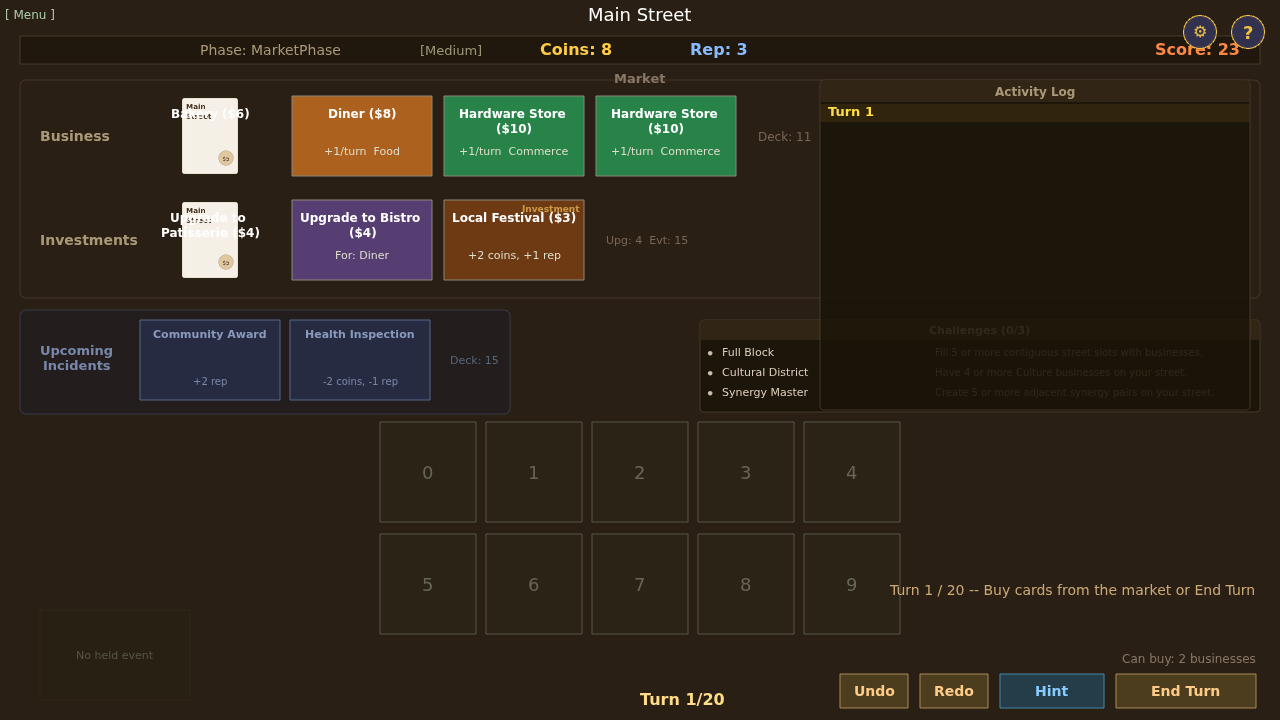
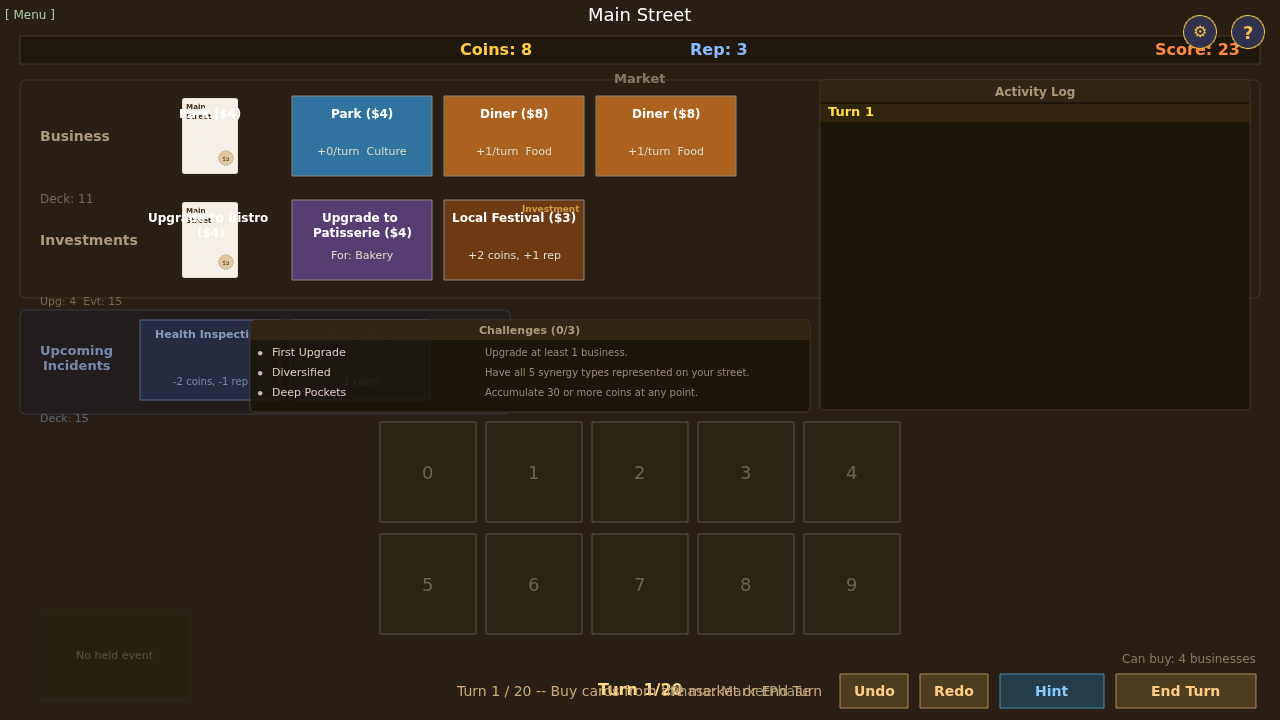
Fix: header bar 2/3 width centered, deck counts under labels, challenges narrower
- Header bar now 2/3 width centered
- Removed duplicate turn counter, keeping only the one at bottom with instructions
- Deck counts now immediately under row labels
- Challenges box narrower to fit in gap
- Score moved left away from settings/help icons
- Build passes

diff --git a/src/scenes/MainStreetScene.ts b/src/scenes/MainStreetScene.ts
@@ -408,13 +408,12 @@ export class MainStreetScene extends CardGameScene {
     const actionY = gameH - 16 - actionButtonH;
 
     // Challenge tracker: position between hand and action buttons
-    const challengeW = Math.min(560, gameW - handCardW - margin * 3);
-    const challengeY = queueTop;
-
     const logW = compact ? 360 : 430;
     const logX = gameW - margin - logW - 10; // left edge just left of right margin
-    // Challenge to the left of the log
+    // Challenge to the left of the log - calculate width first
+    const challengeW = Math.min(280, logX - handCardW - margin - 20);
     const challengeX = logX - challengeW - 10;
+    const challengeY = queueTop;
     const logY = marketTop - 10; // align top with market
     // bottom aligns with market bottom border
     const logH = Math.max(100, (queueTop + queueCardH + 10) - logY);
@@ -682,28 +681,12 @@ export class MainStreetScene extends CardGameScene {
     const { coins, reputation } = this.state.resourceBank;
     const { gameW, hudY } = this.layout;
 
-    // Background strip - simplified, just for visual
-    const strip = this.add.rectangle(gameW / 2, hudY, gameW - 40, 28, 0x1a1408, 0.6);
+    // Background strip - 2/3 width, centered
+    const strip = this.add.rectangle(gameW / 2, hudY, gameW * 0.66, 28, 0x1a1408, 0.6);
     strip.setStrokeStyle(1, BOX_STROKE, 0.5);
     this.hudContainer.add(strip);
 
-    // Turn and Phase displayed at bottom
-    const margin = 20;
-    const bottomY = this.scale.height - margin;
-    
-    // Turn - centered at bottom
-    const turnText = this.add.text(this.scale.width / 2, bottomY, `Turn ${this.state.turn}/${this.state.config.maxTurns}`, {
-      fontSize: '16px', fontStyle: 'bold', color: '#ffdd88', fontFamily: FONT_FAMILY,
-    }).setOrigin(0.5, 1);
-    this.hudContainer.add(turnText);
-
-    // Phase - to the right of turn
-    const phaseText = this.add.text(this.scale.width / 2 + 100, bottomY, `Phase: ${this.state.phase}`, {
-      fontSize: '14px', color: '#aa9977', fontFamily: FONT_FAMILY,
-    }).setOrigin(0.5, 1);
-    this.hudContainer.add(phaseText);
-
-    // Coins
+    // Coins - centered in strip
     const coinText = this.add.text(gameW / 2 - 180, hudY, `Coins: ${coins}`, {
       fontSize: '16px', fontStyle: 'bold', color: '#ffcc44', fontFamily: FONT_FAMILY,
     }).setOrigin(0, 0.5);
@@ -715,10 +698,10 @@ export class MainStreetScene extends CardGameScene {
     }).setOrigin(0, 0.5);
     this.hudContainer.add(repText);
 
-    // Score
-    const scoreText = this.add.text(gameW - 40, hudY, `Score: ${score}`, {
+    // Score - move left away from icons
+    const scoreText = this.add.text(220, hudY, `Score: ${score}`, {
       fontSize: '16px', fontStyle: 'bold', color: '#ff8844', fontFamily: FONT_FAMILY,
-    }).setOrigin(1, 0.5);
+    }).setOrigin(0, 0.5);
     this.hudContainer.add(scoreText);
   }
 
@@ -965,8 +948,8 @@ export class MainStreetScene extends CardGameScene {
   ): void {
     const { marketCardW, marketCardH, marketCardGap, marketLabelW } = this.layout;
 
-    // Row label
-    const label = this.add.text(40, y + marketCardH / 2, rowLabel, {
+    // Row label - also use for positioning deck count
+    const label = this.add.text(40, y, rowLabel, {
       fontSize: '14px', fontStyle: 'bold', color: '#aa9977', fontFamily: FONT_FAMILY,
     }).setOrigin(0, 0.5);
     this.marketContainer.add(label);
@@ -1027,8 +1010,8 @@ export class MainStreetScene extends CardGameScene {
       }
     }
 
-    // Deck count - below the row label
-    const deckY = y + marketCardH + 15;
+    // Deck count - immediately below the label
+    const deckY = y + 16;
     if (rowLabel === 'Business') {
       const deckCount = this.state.decks.business.length;
       const deckText = this.add.text(40, deckY, `Deck: ${deckCount}`, {
@@ -1194,8 +1177,8 @@ export class MainStreetScene extends CardGameScene {
       }
     }
 
-    // Deck count - below the label
-    const deckText = this.add.text(40, queueTop + queueCardH + 12, `Deck: ${deckRemaining}`, {
+    // Deck count - immediately below the label
+    const deckText = this.add.text(40, queueTop + 32, `Deck: ${deckRemaining}`, {
       fontSize: '11px', color: '#556677', fontFamily: FONT_FAMILY,
     }).setOrigin(0, 0);
     this.incidentQueueContainer.add(deckText);
